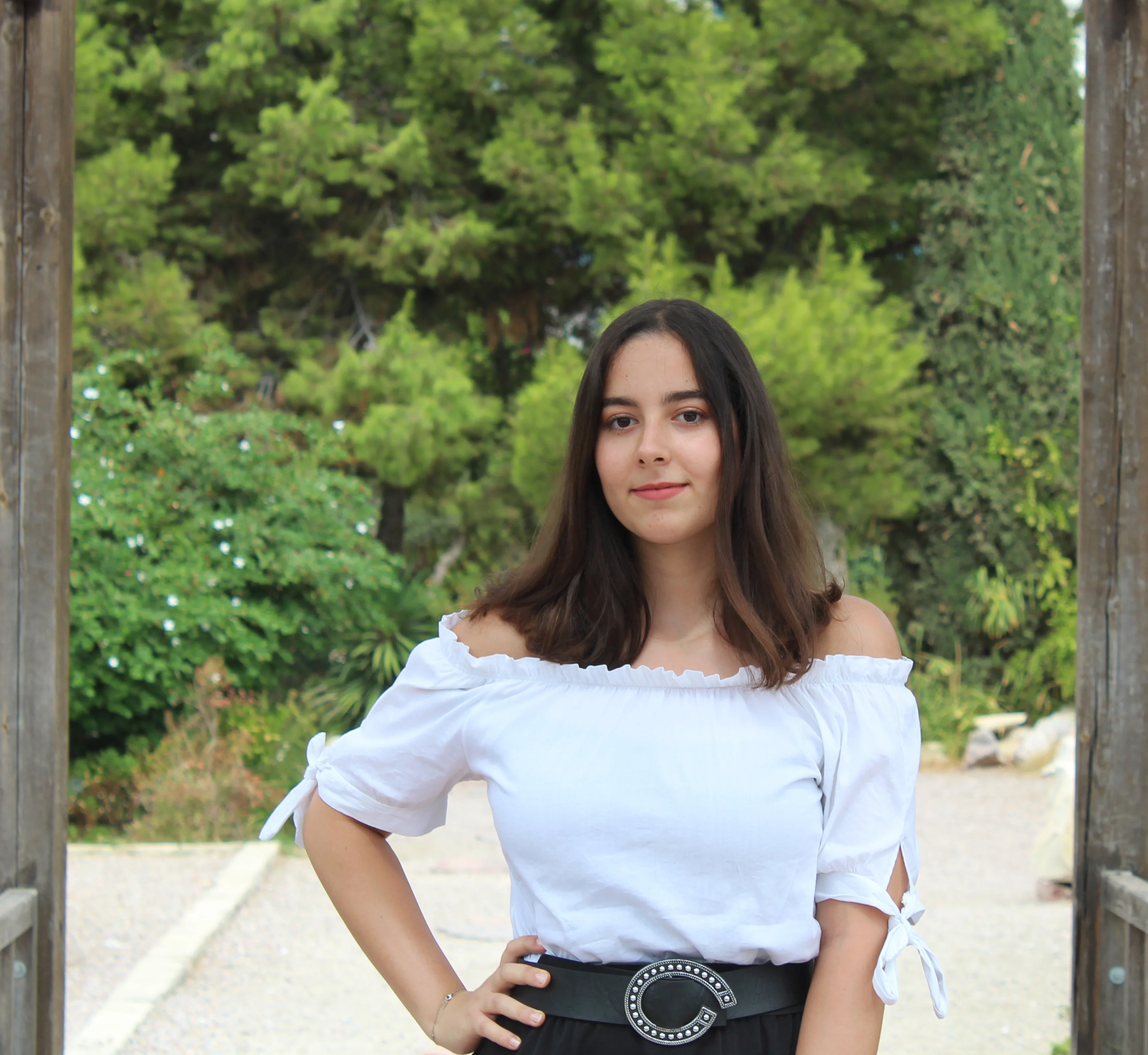
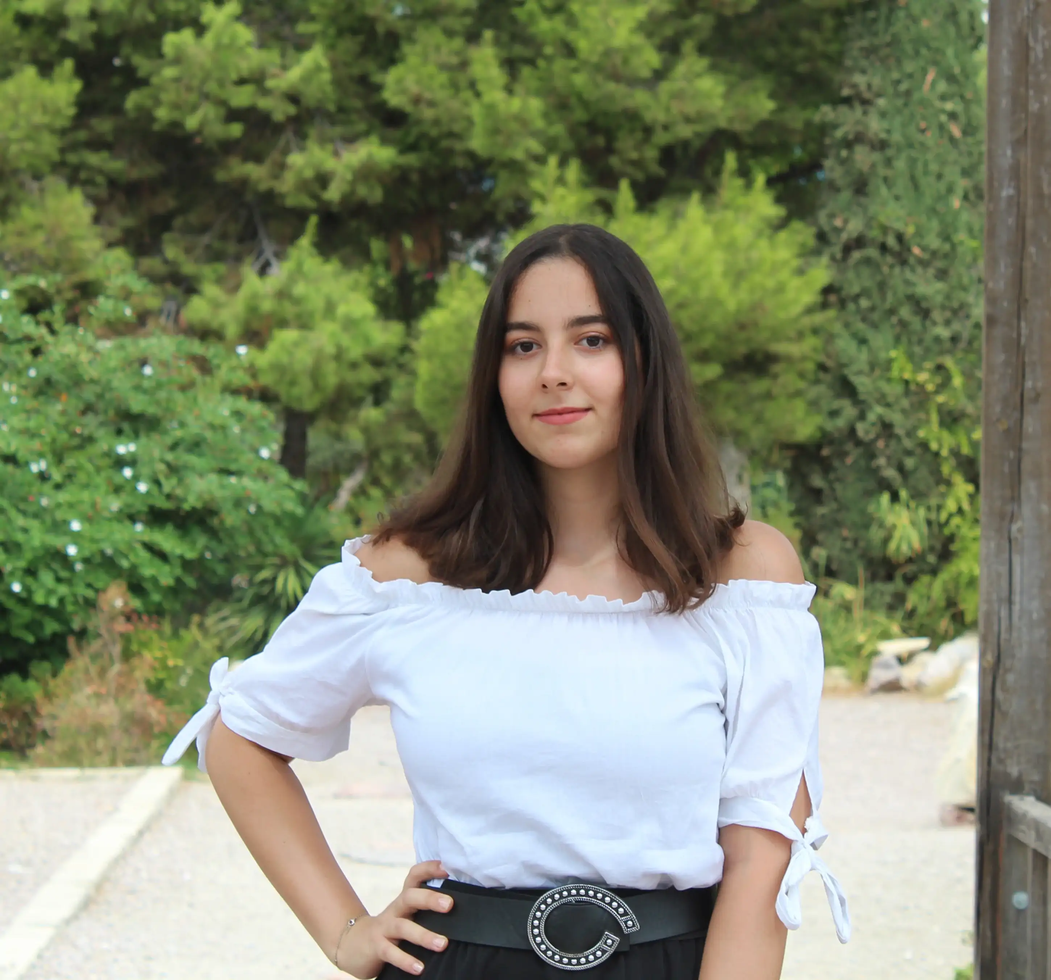
gadit l size mte3 l pics lkol + l format

diff --git a/src/components/home/FeedBack.js b/src/components/home/FeedBack.js
@@ -1,6 +1,8 @@
 import React from "react";
 import { Carousel, Container } from "react-bootstrap";
-import pic from "./img/team/mahdi.jpg";
+import rahma from "./img/feedback/rahma.webp";
+import houssem from "./img/feedback/houssem.webp";
+import aziz from "./img/feedback/aziz.webp";
 
 const FeedBack = () => {
   return (
@@ -8,33 +10,32 @@ const FeedBack = () => {
       <Container>
         <Carousel>
           <Carousel.Item>
-            <img className="d-block w-100" src={pic} alt="First slide" />
+            <img className="d-block w-100" src={rahma} alt="First slide" />
             <Carousel.Caption>
-              <p className="name">First slide label</p>
+              <p className="name">Rahma</p>
               <p className="description">
-                Nulla vitae elit libero, a pharetra augue mollis interdum. Lorem
-                ipsum dolor sit amet consectetur adipisicing elit. Cupiditate,
-                earum?
+                EMBS was a safe haven for me, helped my shy freshman self pave
+                her way towards her dream career. I am not there yet but I know
+                that wherever I go IEEE will be part of it.
               </p>
             </Carousel.Caption>
           </Carousel.Item>
           <Carousel.Item>
-            <img className="d-block w-100" src={pic} alt="Third slide" />
+            <img className="d-block w-100" src={houssem} alt="Third slide" />
 
             <Carousel.Caption>
-              <p className="name">First slide label</p>
+              <p className="name">Houssem</p>
               <p className="description">
-                Nulla vitae elit libero, a pharetra augue mollis interdum. Lorem
-                ipsum dolor sit amet consectetur adipisicing elit. Cupiditate,
-                earum?
+                when you are good at something never do it for free, but there
+                is always an exception for The IEEE
               </p>
             </Carousel.Caption>
           </Carousel.Item>
           <Carousel.Item>
-            <img className="d-block w-100" src={pic} alt="Third slide" />
+            <img className="d-block w-100" src={aziz} alt="Third slide" />
 
             <Carousel.Caption>
-              <p className="name">First slide label</p>
+              <p className="name">Aziz Nasr</p>
               <p className="description">
                 Nulla vitae elit libero, a pharetra augue mollis interdum. Lorem
                 ipsum dolor sit amet consectetur adipisicing elit. Cupiditate,

diff --git a/src/components/home/Team.js b/src/components/home/Team.js
@@ -6,9 +6,9 @@ import emnag from "./img/team/emnag.webp";
 import emnah from "./img/team/emnah.webp";
 import farouk from "./img/team/farouk.webp";
 import houssem from "./img/team/houssem.webp";
-import mahdi from "./img/team/mahdi.jpg";
+import mahdi from "./img/team/mahdi.webp";
 import rihab from "./img/team/rihab.webp";
-import selma from "./img/team/selma.jpg";
+import selma from "./img/team/selma.webp";
 import { SiFacebook, SiInstagram, SiLinkedin } from "react-icons/si";
 
 const ourTeam = [

diff --git a/src/components/newsletter/Collaboration.js b/src/components/newsletter/Collaboration.js
@@ -1,9 +1,9 @@
 import React from "react";
 import { Container, Row } from "react-bootstrap";
-import img1 from "./img/collabs/img1.jpg";
-import img2 from "./img/collabs/img2.jpg";
-import img3 from "./img/collabs/img3.jpg";
-import img4 from "./img/collabs/img4.jpg";
+import img1 from "./img/collabs/img1.webp";
+import img2 from "./img/collabs/img2.webp";
+import img3 from "./img/collabs/img3.webp";
+import img4 from "./img/collabs/img4.webp";
 
 const collab = [
   {

diff --git a/src/components/activities/Events.js b/src/components/activities/Events.js
@@ -1,8 +1,8 @@
 import React from "react";
 import { Container, Row } from "react-bootstrap";
 import bioit from "./img/events/bioit.webp";
-import biiot_challenge from "./img/events/biiot_challenge.jpg";
-import health_tech from "./img/events/health_tech.jpg";
+import biiot_challenge from "./img/events/biiot_challenge.webp";
+import health_tech from "./img/events/health_tech.webp";
 import nanobang from "./img/events/nanobang.webp";
 
 const events = [

diff --git a/src/components/activities/Activities.js b/src/components/activities/Activities.js
@@ -3,7 +3,7 @@ import "./styleAct.css";
 import Events from "./Events";
 import Trainings from "./Trainings";
 import Visits from "./Visits";
-import act from "./img/act.jpg";
+import act from "./img/act.webp";
 import { Wrapper, BgImage, Content, pageTransition } from "../bannerElements";
 import { motion } from "framer-motion";
 

diff --git a/src/components/home/CarouselPage.js b/src/components/home/CarouselPage.js
@@ -1,6 +1,6 @@
 import React from "react";
 import lab from "./img/carousel/lab.webp";
-import medic from "./img/carousel/medic.png";
+import medic from "./img/carousel/medic.webp";
 import virus from "./img/carousel/virus.webp";
 import { Carousel } from "react-bootstrap";
 import { Link } from "react-router-dom";

diff --git a/src/components/home/homeStyle.css b/src/components/home/homeStyle.css
@@ -180,7 +180,7 @@
 .Feedback {
   padding-bottom: 1rem;
   position: relative;
-  background-image: url("./img/feedback/feedbackbg.jpg");
+  background-image: url("./img/feedback/feedbackbg.webp");
   min-height: 100%;
   opacity: 0.95;
   background-position: center;

diff --git a/src/components/contact/Contact.js b/src/components/contact/Contact.js
@@ -1,5 +1,5 @@
 import React from "react";
-import pic from "./img/pic.jpg";
+import pic from "./img/pic.webp";
 import "./styleContact.css";
 import { Container, Row, Col, Button } from "react-bootstrap";
 import styled from "styled-components";
